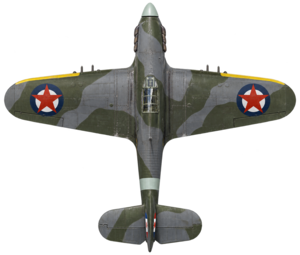
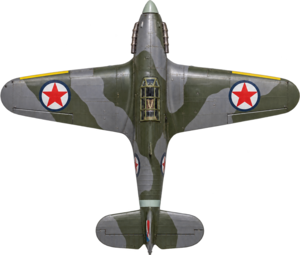
m

Changed region(s): [[0.0, 0.0, 1.0, 1.0]]

diff --git a/docs/DOCS.md b/docs/DOCS.md
@@ -88,6 +88,8 @@ Oznake su usklađene sa [šemom JK448, 352. eskadrila, strana 21](https://www.ed
 
 Početni ekran Visa nudi Spitfire Mk Vb i Hurricane Mk IV, po obrascu izbora iz Warplanea. Katalog `scenes/vis/aircraft.js` određuje nazive i slike; klik sačeka učitavanje izabranog aviona pre početka misije i odbija ponovljene klikove. Oba izbora koriste iste kontrole, naoružanje i dimenzije u igri. `hurricane-mkiv-realistic.png` je AI slika prema fotografijama pravog [Hurricanea Mk IV iz zbirke Vintage Wings of Canada](https://www.vintagewings.ca/hawker-hurricane-mk-iv), sa zeleno-sivom kamuflažom i partizanskim oznakama; nije prepravljena postojeća ilustracija Hurricanea. Nova igra ponovo otvara izbor.
 
+Aktuelne slike ciljaju izgled fotografisanih profesionalnih maketa: Spitfire ima uži trup i eliptična krila, Hurricane puniji trup, konvencionalnija krila i rebrasti zadnji deo. Razlike treba proveravati na prikaznoj veličini od 150 px raspona, ne samo u velikom izvorniku. Isti ugao i slična istorijska kamuflaža prirodno približavaju izgled; povećanje detaljnosti samo po sebi ne garantuje prepoznatljivost. Izvornici su ponovo generisani prema referentnim fotografijama, sa očuvanom providnošću i dimenzijama 300×255.
+
 ## Ulaz
 
 `Input` (`core/io/Input.js`) spaja tastaturu i dodirne kontrole: na uređaju sa mišem koristi tastaturu, a na ekranu na dodir džojstik i dugmad (`Touch.js`). Igrač čita `input.up`, `input.attack` i slično, bez obzira na izvor.
